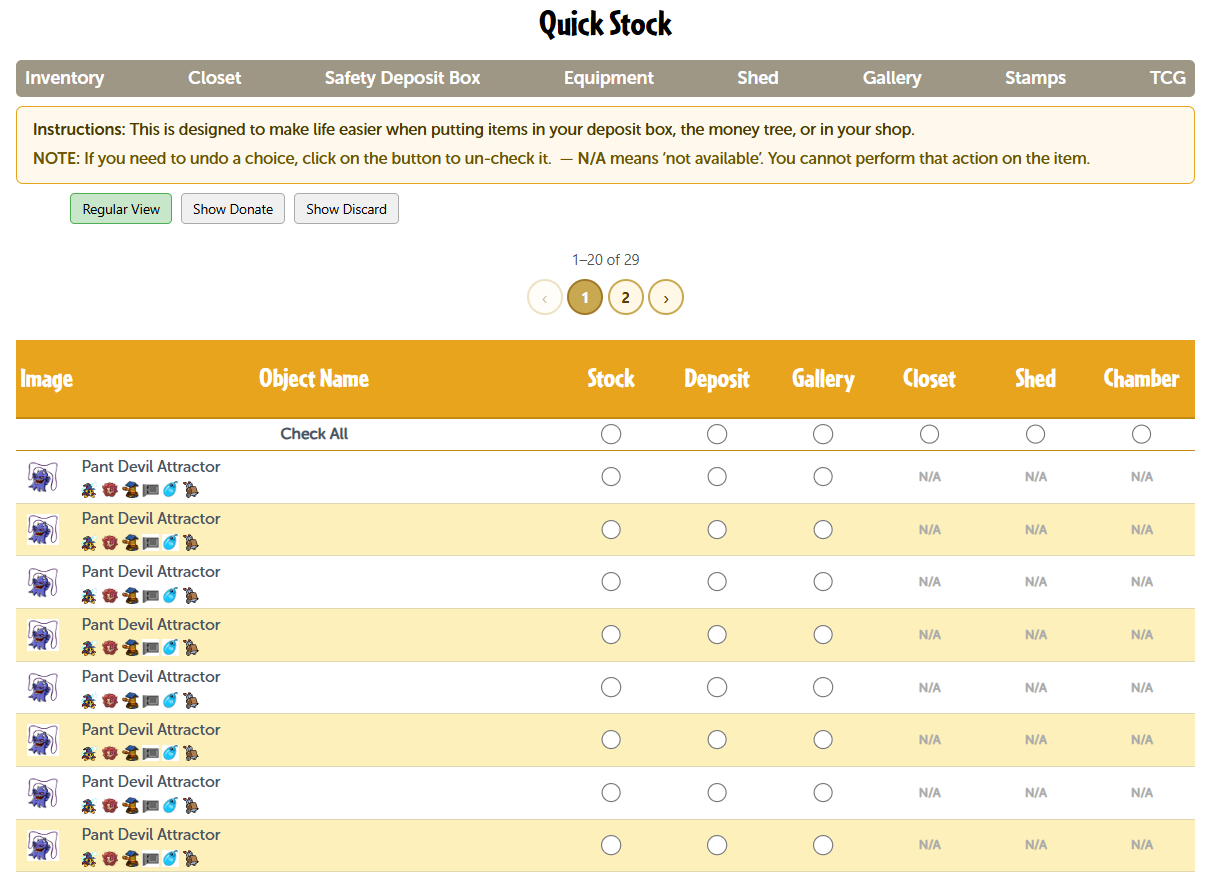
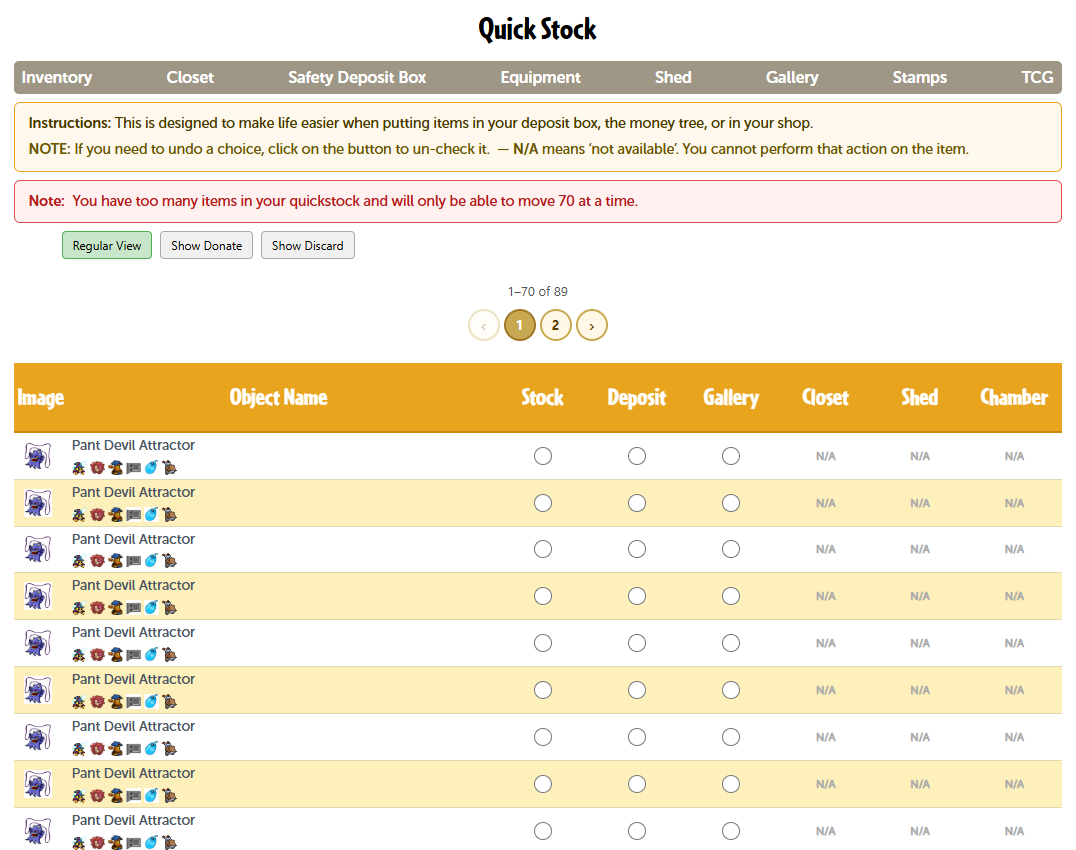
added 70 items per page, sticky header and footer

diff --git a/Hero-Created/Neopets Quickstock Enhancements.user.js b/Hero-Created/Neopets Quickstock Enhancements.user.js
@@ -1,6 +1,6 @@
 // ==UserScript==
 // @name         Neopets Quickstock Enhancements
-// @version      1.1
+// @version      2.0
 // @description  Enhances the new Quickstock page.
 // @author       Hero
 // @icon         https://images.neopets.com/items/foo_gmc_herohotdog.gif
@@ -9,6 +9,7 @@
 // @grant        GM_getValue
 // @grant        GM_setValue
 // @connect      itemdb.com.br
+// @run-at       document-start
 // @downloadURL  https://github.com/mhero18/Hero-Userscripts/raw/refs/heads/main/Hero-Created/Neopets%20Quickstock%20Enhancements.user.js
 // @updateURL    https://github.com/mhero18/Hero-Userscripts/raw/refs/heads/main/Hero-Created/Neopets%20Quickstock%20Enhancements.user.js
 // ==/UserScript==
@@ -17,7 +18,8 @@
 // - Adds item images column
 // - Adds compact view
 // - Adds Donate/Discard column visibility toggles
-// - Mirrors the Check All row under the column headers
+// - Shows up to 70 Quickstock items on one page 
+// - Makes the table header and Check All row sticky while scrolling
 // - Mirrors pagination above the Quickstock table
 // - Adds quick search links for SSW, TP, Auction Genie, SDB, JellyNeo, and ItemDB
 // - Adds a navigation menu on empty quickstock page
@@ -30,20 +32,42 @@
     const CACHE_PREFIX = 'qs_img_';
     const CACHE_TTL = 7 * 24 * 60 * 60 * 1000; // 7 days
     const ITEMDB_API = 'https://itemdb.com.br/api/v1/items/many';
+    const TARGET_PAGE_SIZE = 70;
 
     const STATE_COMPACT = 'qs_compact_view';
     const STATE_DONATE = 'qs_show_donate';
     const STATE_DISCARD = 'qs_show_discard';
-    const MENU_LINK_HREFS = [
-        '/inventory.phtml',
-        '/closet.phtml',
-        '/safetydeposit.phtml',
-        '/dome/neopets.phtml',
-        '/neohome/shed',
-        '/gallery/index.phtml',
-        '/stamps.phtml?type=album',
-        '/tcg/album.phtml'
-    ];
+    // --- Page size patch ----------------------------------------------------------
+    function installQuickstockPageSizePatch() {
+        const patchObserver = new MutationObserver(() => {
+            const appMount = document.getElementById('quickstock-app');
+            if (!appMount) return;
+
+            const script = [...document.querySelectorAll('script')].find(s =>
+                s.textContent.includes('const PAGE_SIZE = 20;') &&
+                s.textContent.includes("window.app.component('quickstock-page'")
+            );
+            if (!script) return;
+
+            patchObserver.disconnect();
+
+            const patchedScript = document.createElement('script');
+            patchedScript.textContent = script.textContent.replace(
+                'const PAGE_SIZE = 20;',
+                `const PAGE_SIZE = ${TARGET_PAGE_SIZE};`
+            );
+            script.replaceWith(patchedScript);
+        });
+
+        patchObserver.observe(document.documentElement, {
+            childList: true,
+            subtree: true
+        });
+
+        setTimeout(() => patchObserver.disconnect(), 10000);
+    }
+
+    installQuickstockPageSizePatch();
 
     // --- Cache helpers ------------------------------------------------------------
     function getCached(name) {
@@ -278,14 +302,20 @@
       body.qs-hide-donate [data-qs-action="donate"] { display: none !important; }
       body.qs-hide-discard [data-qs-action="discard"] { display: none !important; }
 
-      .qs-top-checkall-row {
-        background-color: #fde68a;
-        font-weight: bold;
-        border-top: 2px solid #c48a10;
+      #quickstock-table-container {
+        overflow: unset !important;
       }
 
-      .qs-top-checkall-row td {
-        border-bottom: 1px solid #c48a10;
+      table.quickstock-table thead {
+        inset-block-start: 50px;
+        position: sticky;
+        z-index: 100;
+      }
+
+      table.quickstock-table tbody tr:last-of-type {
+        inset-block-end: 0;
+        position: sticky;
+        z-index: 100;
       }
 
       .qs-enhancer-page-header {
@@ -523,39 +553,6 @@
     }
 
     // --- Nav bar ------------------------------------------------------------------
-    function normalizeMenuHref(anchor) {
-        const rawHref = anchor.getAttribute('href');
-        if (!rawHref) return '';
-
-        try {
-            const url = new URL(rawHref, location.origin);
-            if (url.origin === location.origin) {
-                return `${url.pathname}${url.search}`;
-            }
-        } catch {
-            // Fall through to the raw href.
-        }
-
-        return rawHref;
-    }
-
-    function hasExistingQuickstockMenu(root = document) {
-        if (root.querySelector('.qs-menubar:not(.qs-enhancer-menubar)')) return true;
-
-        const expectedLinks = new Set(MENU_LINK_HREFS);
-        const possibleMenus = root.querySelectorAll(
-            'nav, [role="navigation"], ul, .menubar, .menu, .nav, .navsub, .nav-menu, #nav, #navigation'
-        );
-
-        return [...possibleMenus].some(menu => {
-            const foundLinks = [...menu.querySelectorAll('a[href]')]
-                .map(normalizeMenuHref)
-                .filter(href => expectedLinks.has(href));
-
-            return new Set(foundLinks).size >= 3;
-        });
-    }
-
     function removeFallbackMenuIfOriginalExists() {
         if (!document.querySelector('.qs-menubar:not(.qs-enhancer-menubar)')) return false;
 
@@ -565,22 +562,27 @@
     }
 
     function findEmptyQuickstockMessage() {
-        return [...document.querySelectorAll('center, b, p, div')]
+        return [...document.querySelectorAll('center, b')]
             .find(el => el.textContent.includes('You do not have any items :('));
     }
 
-    function getQuickstockContentRoot(tableContainer, table, emptyMessage) {
-        return tableContainer?.parentElement ||
-            table?.parentElement ||
-            emptyMessage?.closest('#container__2020, #content td.content, .content, #main') ||
-            document.querySelector('#container__2020') ||
-            document.querySelector('#content td.content') ||
-            document.querySelector('.content') ||
-            document.querySelector('#main') ||
-            document.body;
+    function hasFallbackMenu() {
+        const fallbackHeaders = [...document.querySelectorAll('.qs-enhancer-page-header')];
+        if (!fallbackHeaders.length) return false;
+
+        fallbackHeaders.forEach((header, index) => {
+            if (index === 0) {
+                header.id = 'qs-enhancer-empty-header';
+            } else {
+                header.remove();
+            }
+        });
+        return true;
     }
 
     function ensureMenuBar() {
+        if (hasFallbackMenu()) return;
+        if (document.getElementById('qs-enhancer-empty-header')) return;
         if (removeFallbackMenuIfOriginalExists()) return;
 
         const tableContainer = document.querySelector('#quickstock-table-container');
@@ -591,11 +593,10 @@
 
         if (!hasQuickstockTable && !hasNoItemsMessage) return;
 
-        const contentRoot = getQuickstockContentRoot(tableContainer, table, emptyMessage);
-
-        if (hasExistingQuickstockMenu(contentRoot)) return;
+        if (document.querySelector('.qs-menubar:not(.qs-enhancer-menubar)')) return;
 
         const header = document.createElement('div');
+        header.id = 'qs-enhancer-empty-header';
         header.className = 'qs-page-header qs-enhancer-page-header';
         header.innerHTML = `
     <div class="qs-title-container">
@@ -629,14 +630,17 @@
         if (tableContainer) {
             tableContainer.before(header);
         } else if (emptyMessage) {
+            const contentRoot = document.querySelector('#container__2020') || emptyMessage.parentElement || document.body;
             const navBuffer = contentRoot.querySelector('#navsub-buffer__2020');
             if (navBuffer?.parentElement === contentRoot) {
                 navBuffer.after(header);
             } else {
                 emptyMessage.before(header);
             }
+        } else if (table?.parentNode) {
+            table.parentNode.insertBefore(header, table);
         } else {
-            contentRoot.prepend(header);
+            document.body.prepend(header);
         }
     }
 
@@ -723,7 +727,7 @@
     }
 
     function fixCheckAllRow(tbody) {
-        const checkAllRow = [...tbody.querySelectorAll('tr:not(.qs-top-checkall-row)')].find(
+        const checkAllRow = [...tbody.querySelectorAll('tr')].find(
             tr => tr.querySelector('td strong')?.textContent.trim() === 'Check All'
         );
         if (!checkAllRow) return;
@@ -732,66 +736,6 @@
             const imgTd = document.createElement('td');
             imgTd.className = 'qs-img-cell';
             checkAllRow.prepend(imgTd);
-        }
-    }
-
-    function getOriginalCheckAllRow(tbody) {
-        return [...tbody.querySelectorAll('tr:not(.qs-top-checkall-row)')].find(
-            tr => tr.querySelector('td strong')?.textContent.trim() === 'Check All'
-        );
-    }
-
-    function syncTopCheckAllRow(tbody) {
-        const originalRow = getOriginalCheckAllRow(tbody);
-        let topRow = tbody.querySelector('tr.qs-top-checkall-row');
-
-        if (!originalRow) {
-            topRow?.remove();
-            return;
-        }
-
-        const firstBodyRow = tbody.querySelector('tr:not(.qs-top-checkall-row)');
-        if (!topRow) {
-            topRow = originalRow.cloneNode(true);
-            topRow.classList.add('qs-top-checkall-row');
-            topRow.querySelectorAll('input').forEach(input => {
-                input.removeAttribute('onclick');
-                input.removeAttribute('name');
-            });
-            tbody.insertBefore(topRow, firstBodyRow);
-        } else if (topRow.nextElementSibling !== firstBodyRow) {
-            tbody.insertBefore(topRow, firstBodyRow);
-        }
-
-        const originalInputs = [...originalRow.querySelectorAll('input')];
-        const topInputs = [...topRow.querySelectorAll('input')];
-
-        topInputs.forEach((input, index) => {
-            const originalInput = originalInputs[index];
-            input.checked = !!originalInput?.checked;
-            input.disabled = !originalInput || originalInput.disabled;
-        });
-
-        if (!topRow.dataset.qsTopCheckAllBound) {
-            topRow.addEventListener('click', e => {
-                const input = e.target.closest('input');
-                if (!input || !topRow.contains(input)) return;
-
-                e.preventDefault();
-                e.stopPropagation();
-
-                const currentTopInputs = [...topRow.querySelectorAll('input')];
-                const inputIndex = currentTopInputs.indexOf(input);
-                const currentOriginalRow = getOriginalCheckAllRow(tbody);
-                const matchingInput = currentOriginalRow?.querySelectorAll('input')[inputIndex];
-
-                if (matchingInput && !matchingInput.disabled) {
-                    matchingInput.click();
-                    input.checked = matchingInput.checked;
-                    scheduleEnhance();
-                }
-            });
-            topRow.dataset.qsTopCheckAllBound = 'true';
         }
     }
 
@@ -959,7 +903,6 @@
         });
 
         fixCheckAllRow(tbody);
-        syncTopCheckAllRow(tbody);
         markColumns(thead, tbody);
 
         addSearchHelpers(tbody);
@@ -967,9 +910,8 @@
     }
 
     // --- Reactive watcher for Vue pagination / view updates -----------------------
-    pruneExpiredCache();
-
     let qsEnhanceTimer = null;
+    let qsStarted = false;
 
     function scheduleEnhance() {
         clearTimeout(qsEnhanceTimer);
@@ -977,8 +919,6 @@
             enhanceQuickstockTable();
         }, 80);
     }
-
-    scheduleEnhance();
 
     const observer = new MutationObserver((mutations) => {
         let shouldEnhance = false;
@@ -1002,9 +942,23 @@
         }
     });
 
-    observer.observe(document.body, {
-        childList: true,
-        subtree: true,
-        characterData: true
-    });
+    function startEnhancer() {
+        if (qsStarted || !document.body) return;
+        qsStarted = true;
+
+        pruneExpiredCache();
+        scheduleEnhance();
+
+        observer.observe(document.body, {
+            childList: true,
+            subtree: true,
+            characterData: true
+        });
+    }
+
+    if (document.body) {
+        startEnhancer();
+    } else {
+        document.addEventListener('DOMContentLoaded', startEnhancer, { once: true });
+    }
 })();
